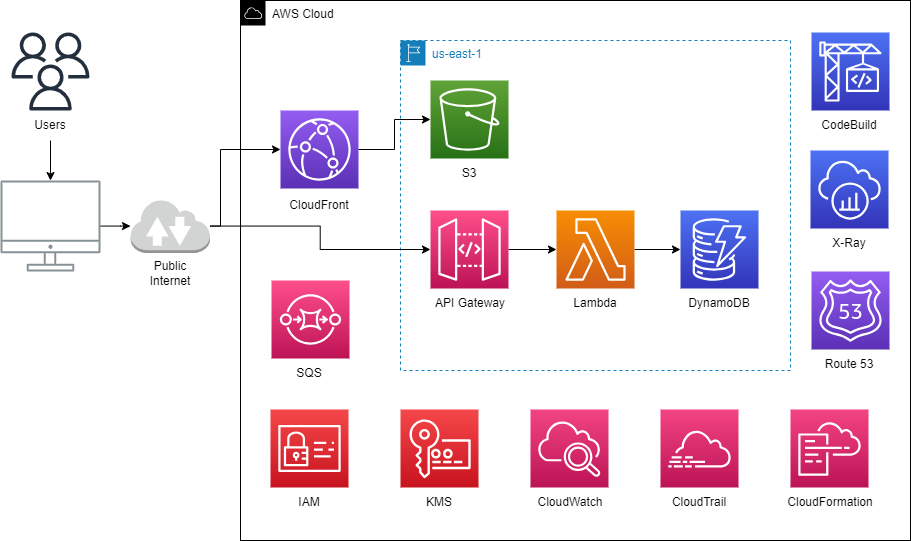
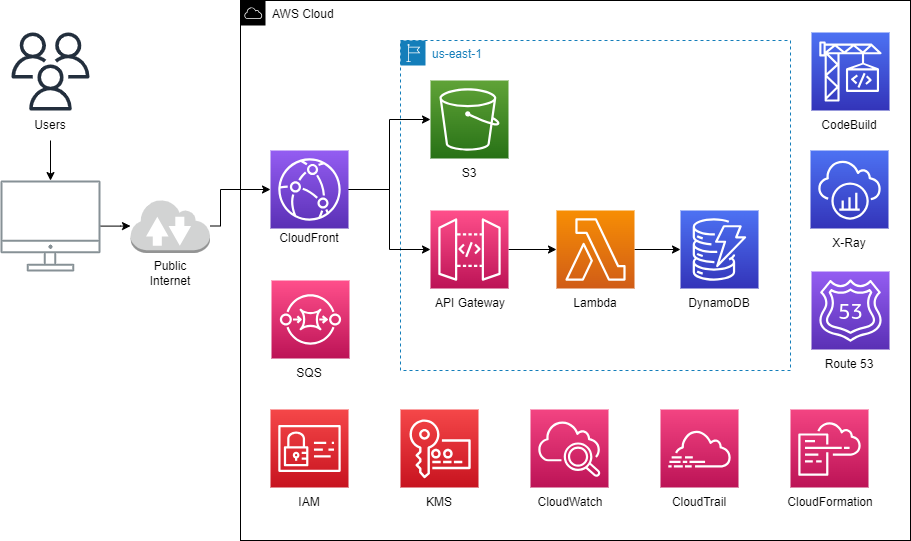
Update architecture diagram for CloudFront

Changed region(s): [[0.2459, 0.1774, 0.3996, 0.4732]]

diff --git a/README.md b/README.md
@@ -37,7 +37,8 @@ _Created using [draw.io](https://www.draw.io/?splash=0&libs=aws4)_
 
 - Information about all the AWS services is stored in a DynamoDB table. Global Secondary Indexes (GSIs) are used to help improve the performance of queries by certain filters, such as searching for services by price or category.
 - A Lambda function handles the logic by the client to perform the appropriate CRUD operations on the DynamoDB table.
-- The API is exposed to the client using API Gateway. An OpenAPI spec defines which endpoints the client can call and how API Gateway transforms the requests and responses from Lambda. Rate limiting is applied to prevent heavy usage of the API.
+- The API is contructed using API Gateway. An OpenAPI spec defines which endpoints the client can call and how API Gateway transforms the requests and responses from Lambda. Rate limiting is applied to prevent heavy usage of the API.
+- The API is then exposed to the client using CloudFront to improve performance via caching and edge locations. It also reduces the amount of API calls made to the rest of the back-end.
 - On failure, a dead-letter queue (DLQ) is used to collect error messages from Lambda.
 
 ## Pipeline Diagrams
@@ -174,7 +175,7 @@ aws cloudformation update-stack --stack-name NAME --template-body FILE_PATH --pa
 Continue update rollback:
 
 ```bash
-aws cloudformation continue-update-rollback --stack-name NAME
+aws cloudformation continue-update-rollback --stack-name NAME [--resources-to-skip RESOURCE]
 ```
 
 Delete stack:
